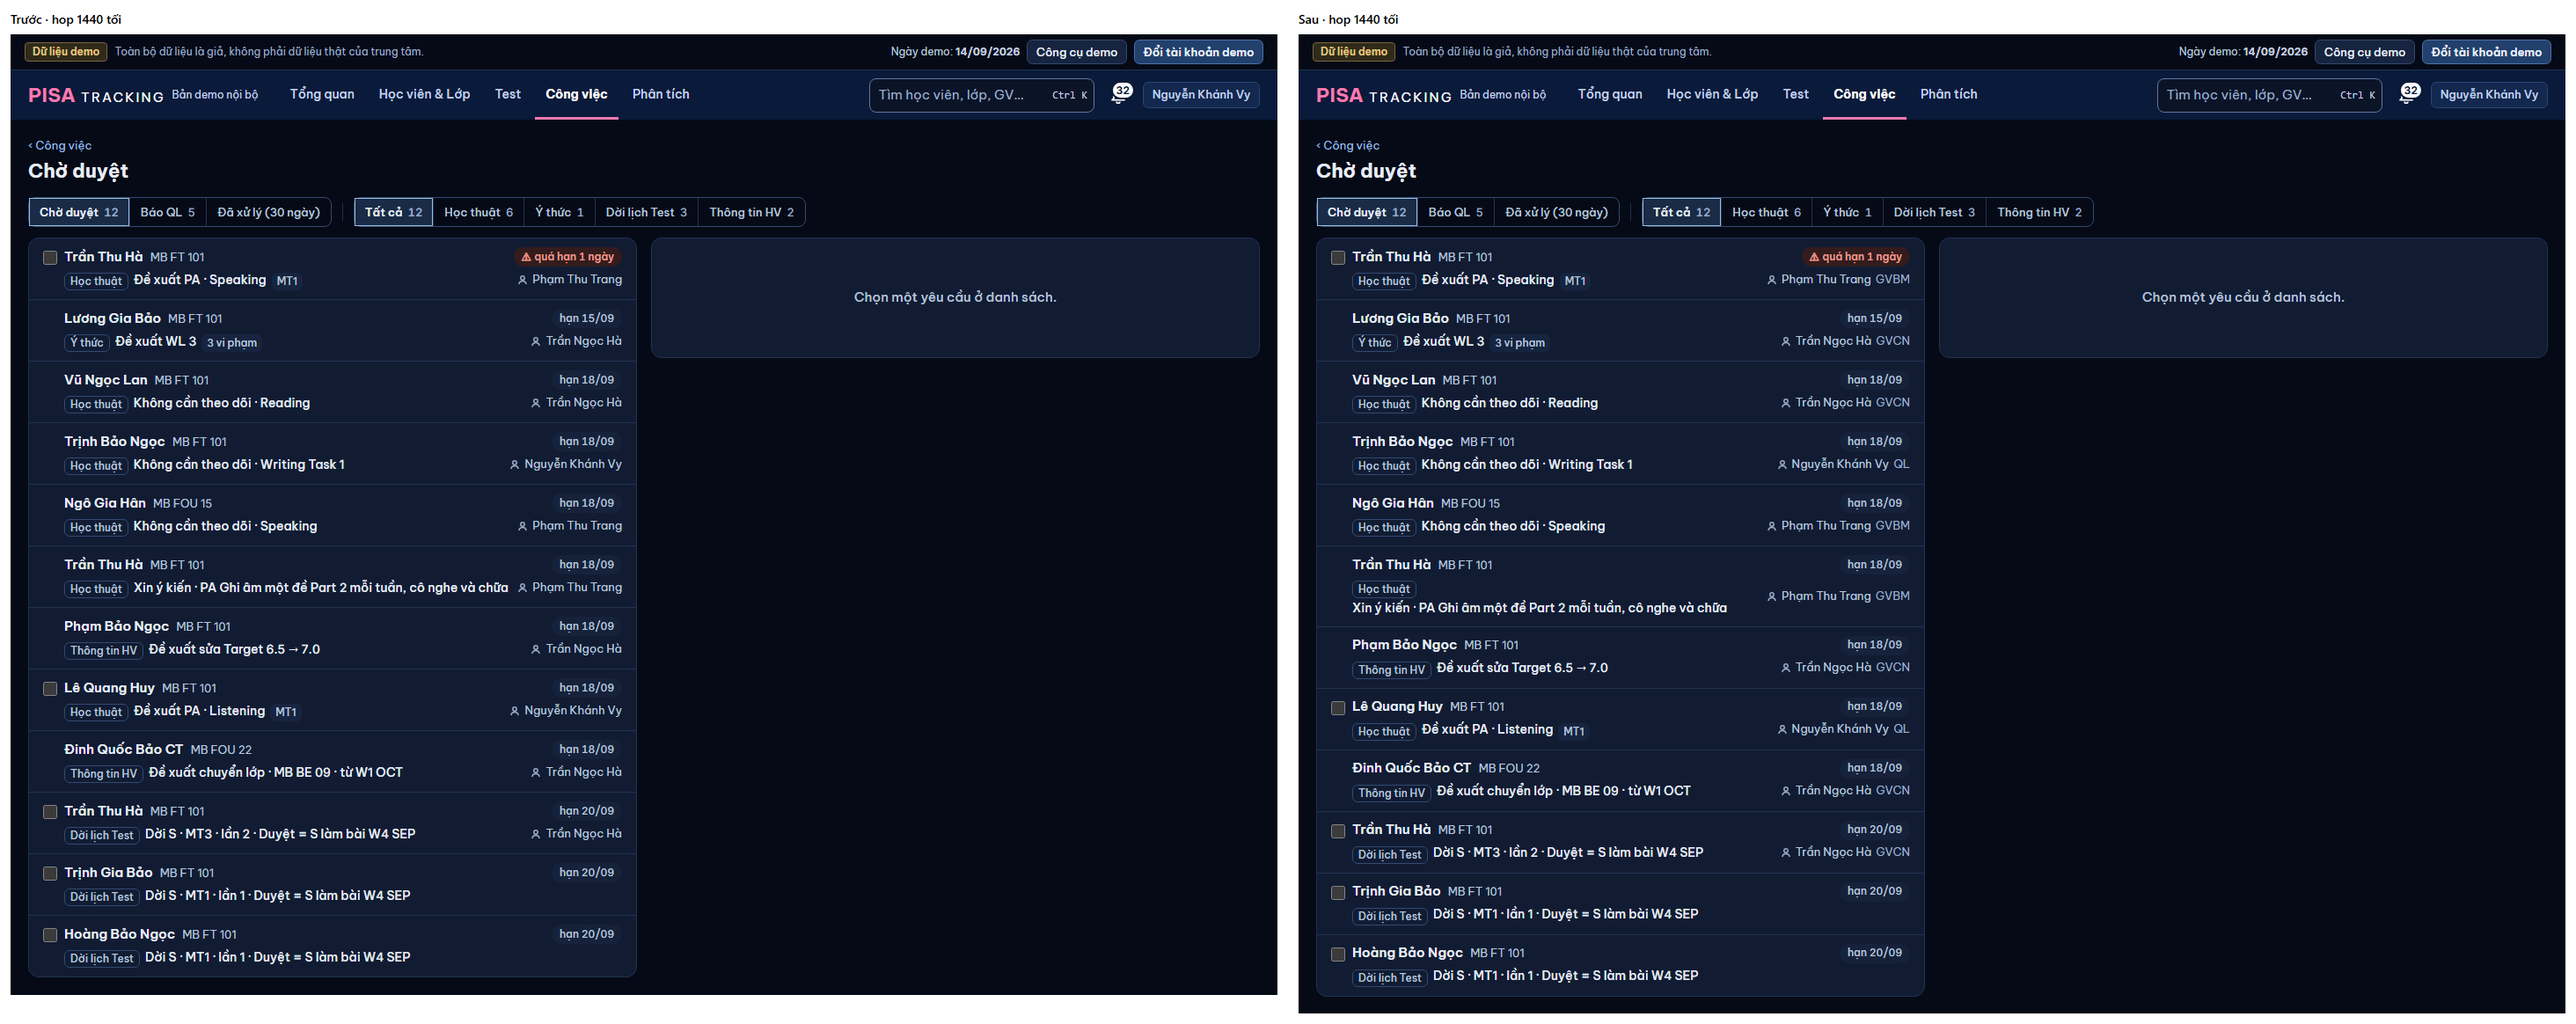
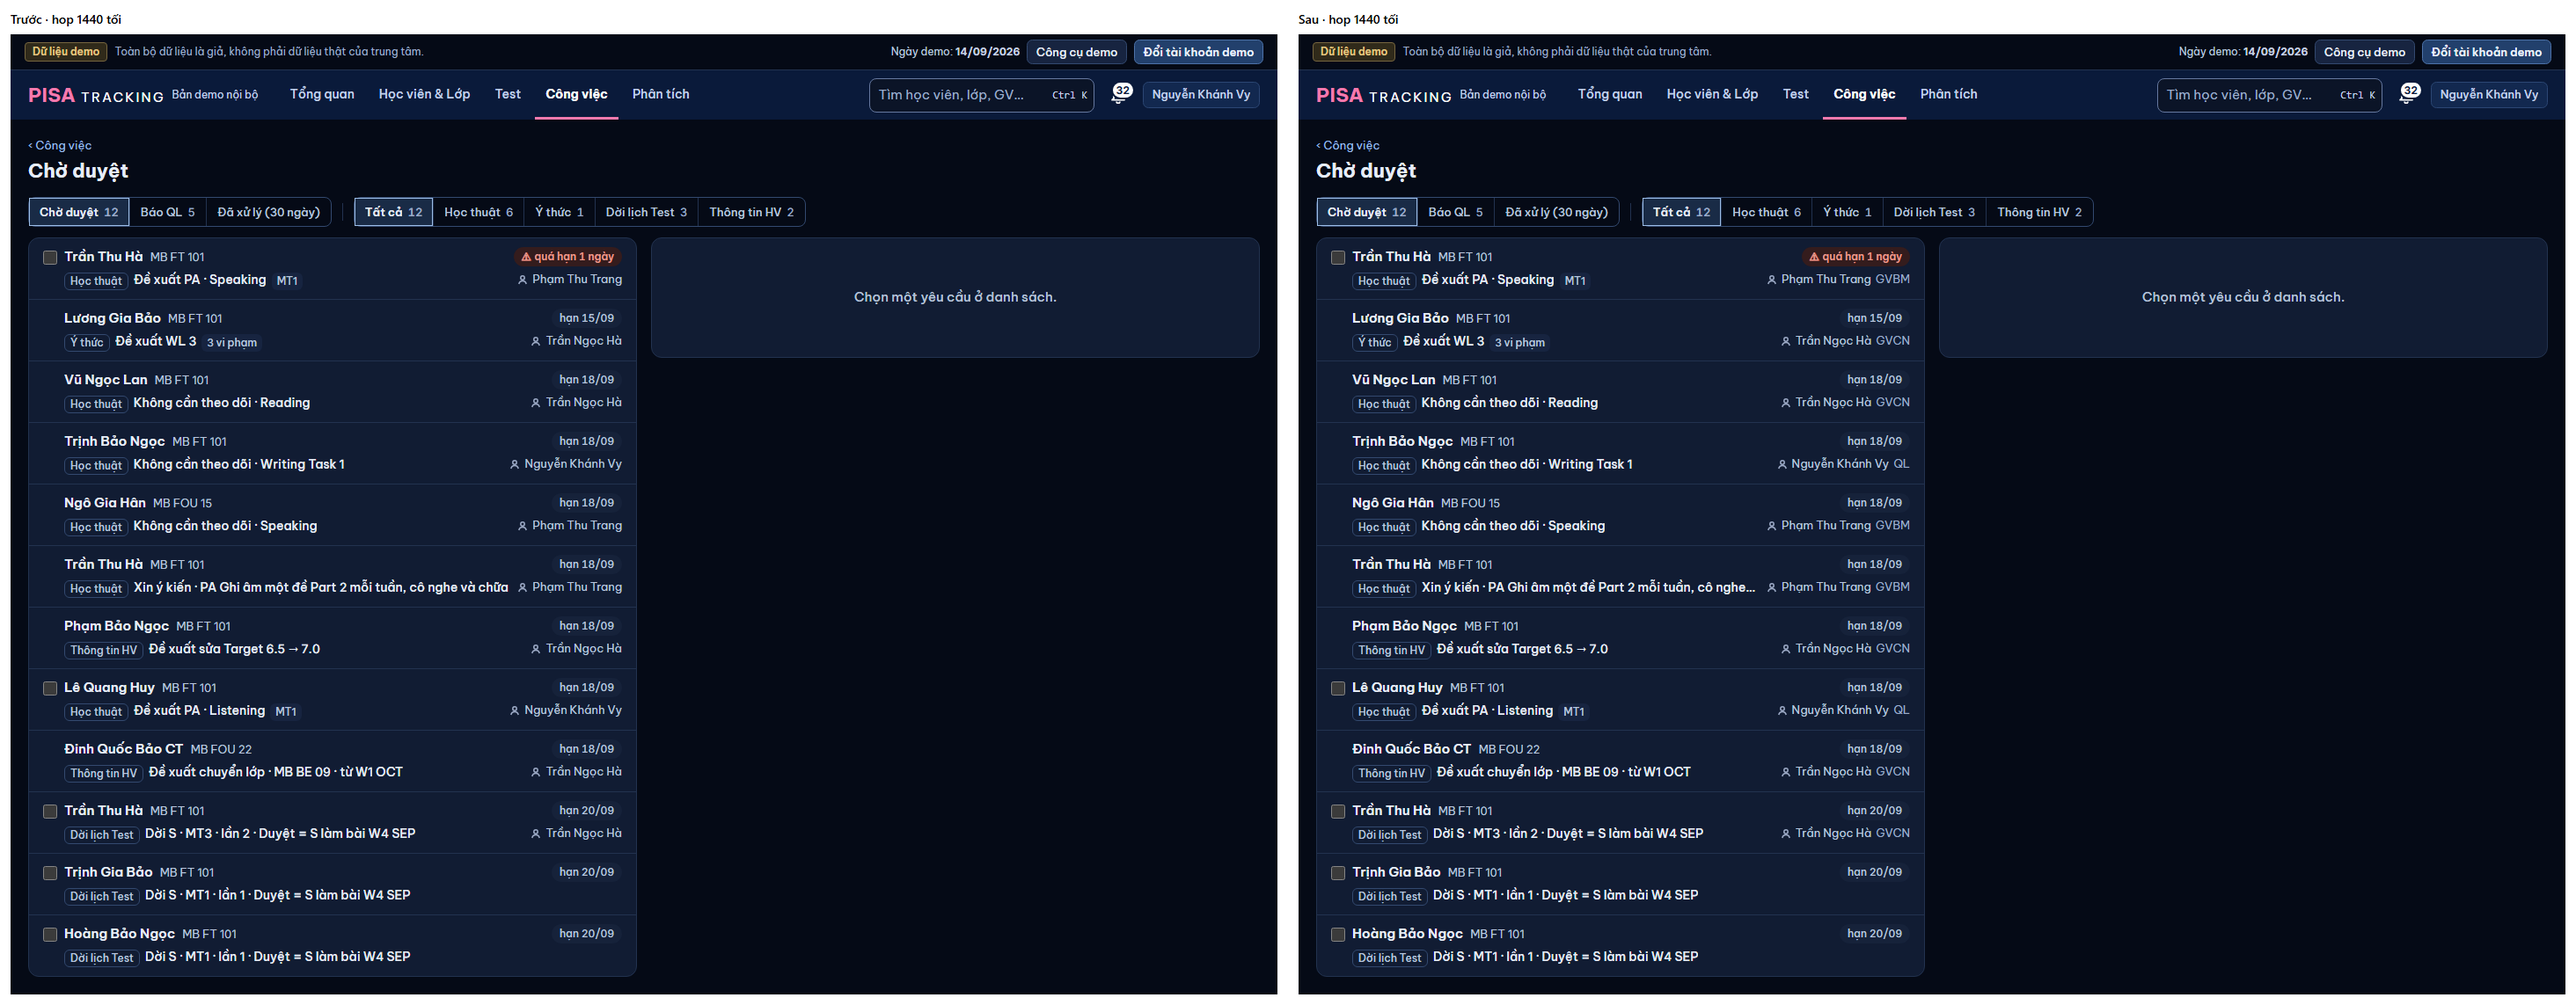
Hộp duyệt: chip loại + tên yêu cầu một hàng (≥ 640), tên cắt … có title — cột người gửi không ép xuống dòng

diff --git a/web/src/modules/duyet/HopChoDuyet.tsx b/web/src/modules/duyet/HopChoDuyet.tsx
@@ -630,10 +630,11 @@ function DongYeuCau({ yc, dang, onMo, chon }: {
             : <span className="flex shrink-0 items-center gap-1.5"><NhanTrangThai t={tt.t} />{yc.xuLyLuc && <span className="text-[12px] text-dim">{ngan(yc.xuLyLuc)}</span>}</span>}
         </span>
         <span className="flex min-w-0 items-center justify-between gap-2">
-          <span className="flex min-w-0 flex-wrap items-center gap-x-1.5 gap-y-0.5">
-            <ThePhu vien={[dich(yc.nhanPhanLoai)]} ds={[]} />
-            <span className="min-w-0 text-[14px] font-medium leading-snug text-[color:var(--text)]">{dich(yc.tieuDe)}</span>
-            {yc.phu && <ThePhu ds={[dich(yc.phu)]} />}
+          {/* PTA #949: ≥ 640 chip loại + tên yêu cầu MỘT hàng — tên cắt "…" (đủ chữ ở title), cột người gửi không ép xuống dòng; 375 vẫn xuống dòng (không có cột người). */}
+          <span className="flex min-w-0 flex-wrap items-center gap-x-1.5 gap-y-0.5 sm:flex-nowrap">
+            <span className="shrink-0"><ThePhu vien={[dich(yc.nhanPhanLoai)]} ds={[]} /></span>
+            <span className="min-w-0 text-[14px] font-medium leading-snug text-[color:var(--text)] sm:truncate" title={dich(yc.tieuDe)}>{dich(yc.tieuDe)}</span>
+            {yc.phu && <span className="shrink-0"><ThePhu ds={[dich(yc.phu)]} /></span>}
           </span>
           {/* M8: 375 không đủ chỗ cột người — người gửi xem trong panel. */}
           {yc.nguoiXin && <span className="max-w-[40%] shrink-0 max-sm:hidden"><NguoiGiu ten={yc.nguoiXin} vai={yc.vaiNguoiXin} /></span>}
